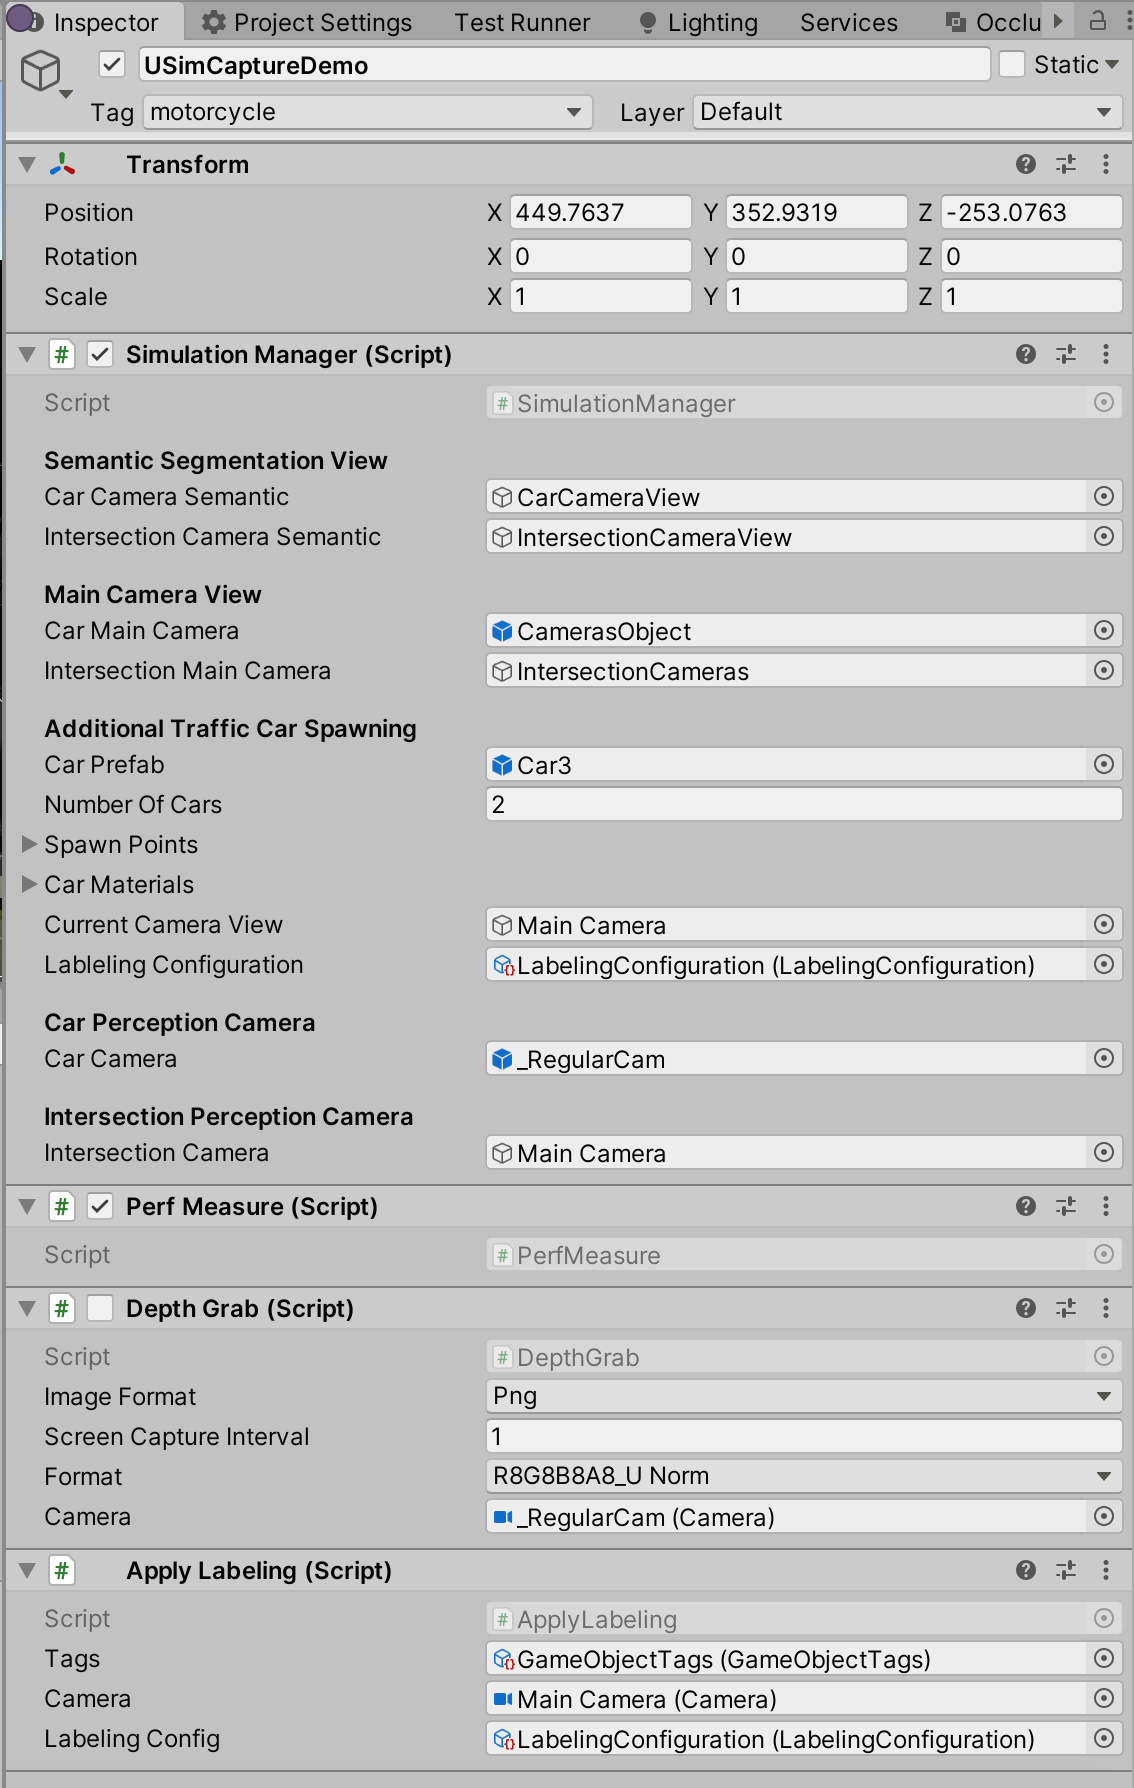
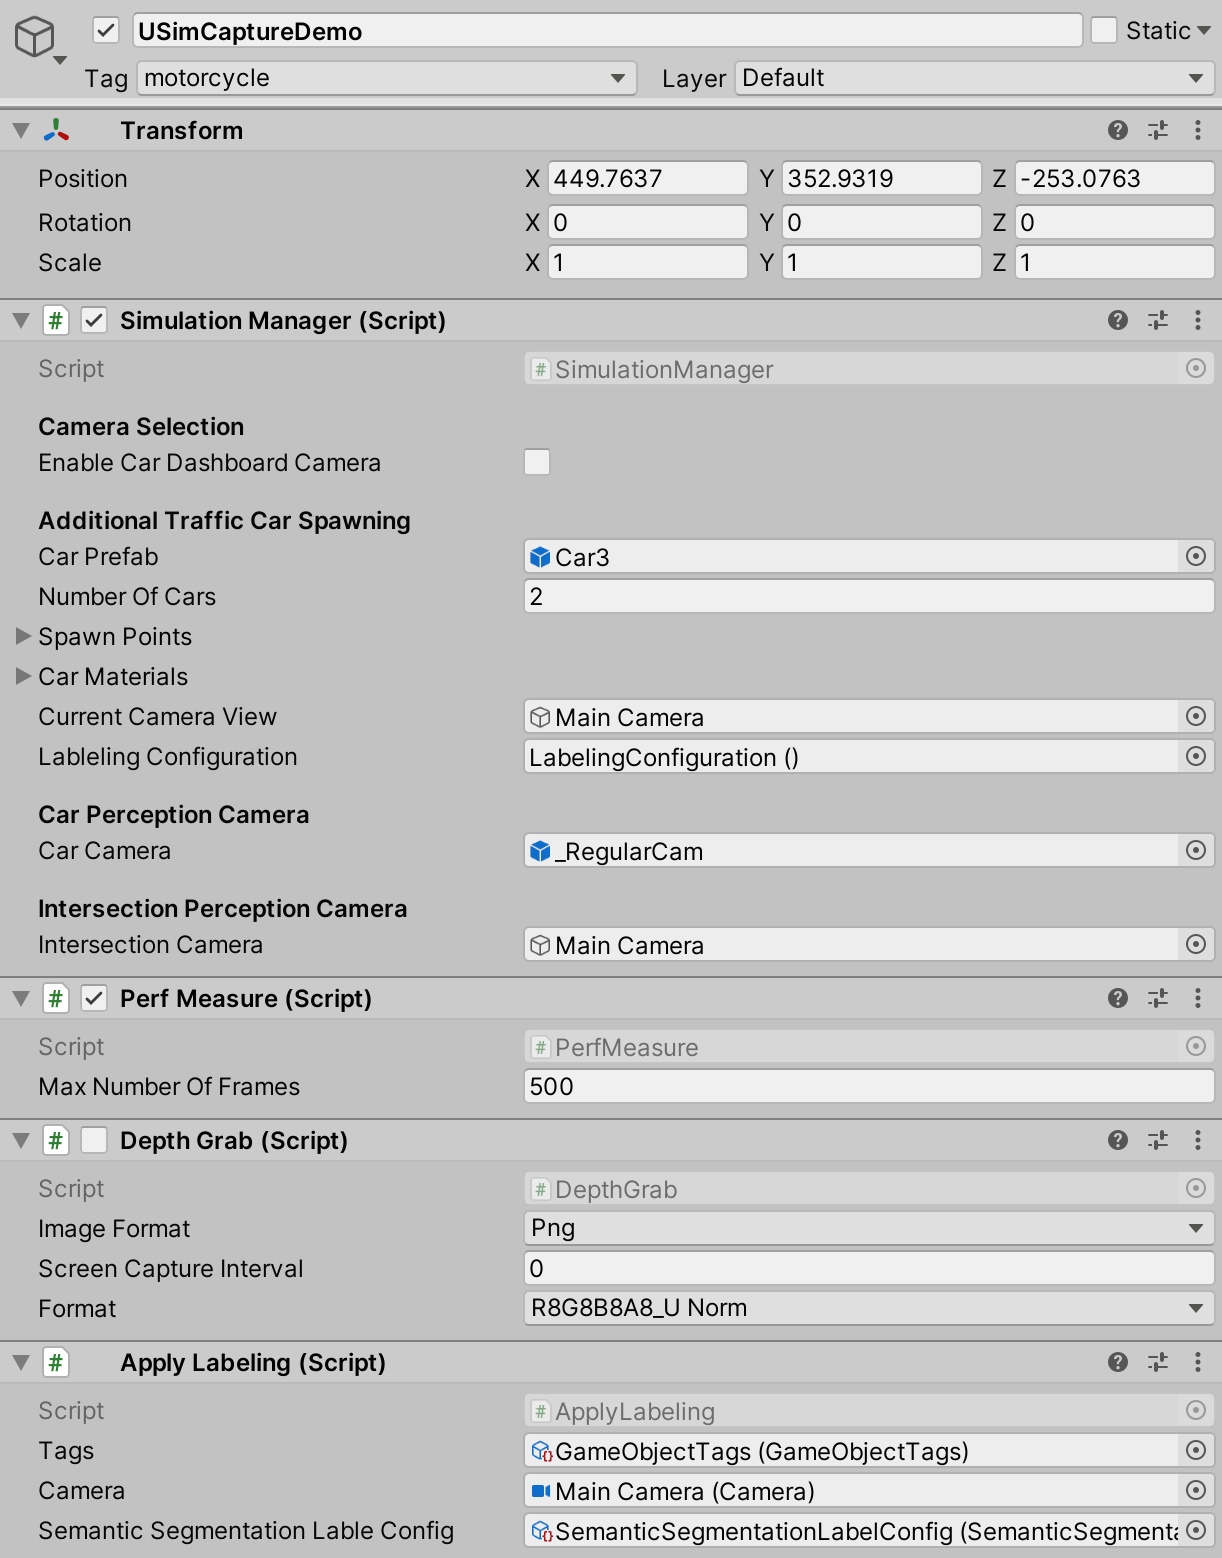
Updating docs

diff --git a/README.md b/README.md
@@ -22,6 +22,7 @@ This is an empty gameobject in the hierarchy that is responsible for driving the
  
 #### PerceptionCamera 
 This component enables capture of RGB images, Semantic segmentation and Bounding box annotations for the source camera on which this script is added. In this case the PerceptionCamera script component is added to the intersection camera and the car dashboard camera. You can choose the view for which you want to generate the dataset by clicking on "Switch Camera" while running locally in editor or player and via Simulation AppParam (explained later) while running in the cloud.
+
 ![Perception Camera](docs/images/PerceptionCamera.png "Perception Camera")
  
 #### DepthGrab
@@ -37,18 +38,21 @@ This component uses perception sdk APIs to add labeling to all the tagged game o
 - LabelingConfig :  LabelingConfiguration scriptable object created from PerceptionSDK.
  
 ![Semantic Segmentation](docs/images/Segmentation_IntersectionCam.png "Semantic Segmentation")
+
+
+Detailed Documentation on Perception SDK can be found [here](https://github.com/Unity-Technologies/com.unity.perception/blob/master/com.unity.perception/Documentation~/index.md)
+
+
+### Switch Camera View
+
+You can switch the camera view to car dashboard camera view by checking the Enable Car Dashboard Camera option on SimulationManager Scipt Component.. This will enable the perception camera component on one of the Cars in the scene.
+
+![Car Dashboard Camera](docs/images/CarDashboardView.png "Car Dashboard Camera")
  
  
-On switching to the car's dashboard camera view, the depth camera is enabled and you will see images with depth data getting saved at the same location. The depth is saved in the format selected from the dropdown (jpg in this case)
- 
-![Depth Capture](docs/images/Sim03.png "Depth Capture")
- 
-#### Running on USim
-The project is created with OpenGL graphics API and so you will be able to run this in USim with CPU based rendering. You can follow the same process described here (add link) to build and run on USim.
- 
- 
-## Run on USim from Editor
-Unity Simulation Client package provide C# APIs to perform USim CLI workflow from the editor and improve iteration time. This project has a menu item which provides option to Build Project and Execute on USim
+## Run on USim
+
+You can run your simulation on USim using the USim CLI by following instructions [here](https://github.com/Unity-Technologies/Unity-Simulation-Docs/blob/master/doc/cli.md) Or you can use simulation client package which exposes C# APIs to automate USim CLI workflow in Unity Editor as per your requirement to improve iteration time. This project demontrates usage of Client package APIs by creating a menu item which provides option to Build Project and Execute on USim. Build Project will perform a Linux Standalone build and zip it up for upload. Execute menu item will create a run definition to run the simulation with the build generated using vCPU6 sysparam and schedule it on USim. After the run is scheduled, it will log the execution-id to the console. Make sure you are logged in to Unity Services and your project is liked to a cloudprojectId.
  
 ![USim Execute](docs/images/Sim06.png "USim Execute")
  
@@ -76,14 +80,14 @@ Limitations
 - Car physics uses a single raycast to account for cars in the front. It does not account for cars in the blind spot.
  
 #### Known Issues
-Depth grab currently does not work as expected with explicit render texture provided to the camera's target texture. The work around for this is, provide a RenderTexture to Car's _RegularCam and set targetTexture of _DepthCam to None while running with the Car dashboard camera view.
+Depth Grab bundled with this project has issues and will be fixed in the next update.
 
 
 ## FAQs
 
 **1. Execute menu option doesn't work for me**
 
-     This might typically happen if you are not logged in or linked your project. You can do this by opening the Service window (Cmd + 0 or Ctrl + 0) and clicking        on SignIn and link your project.
+     This might typically happen if you are not logged in or linked your project. You can do this by opening the Service window (Cmd + 0 or Ctrl + 0) and clicking on SignIn and link your project.
 
 
 **2. I am logged in and my project is linked, I am still not able to run on USim**
